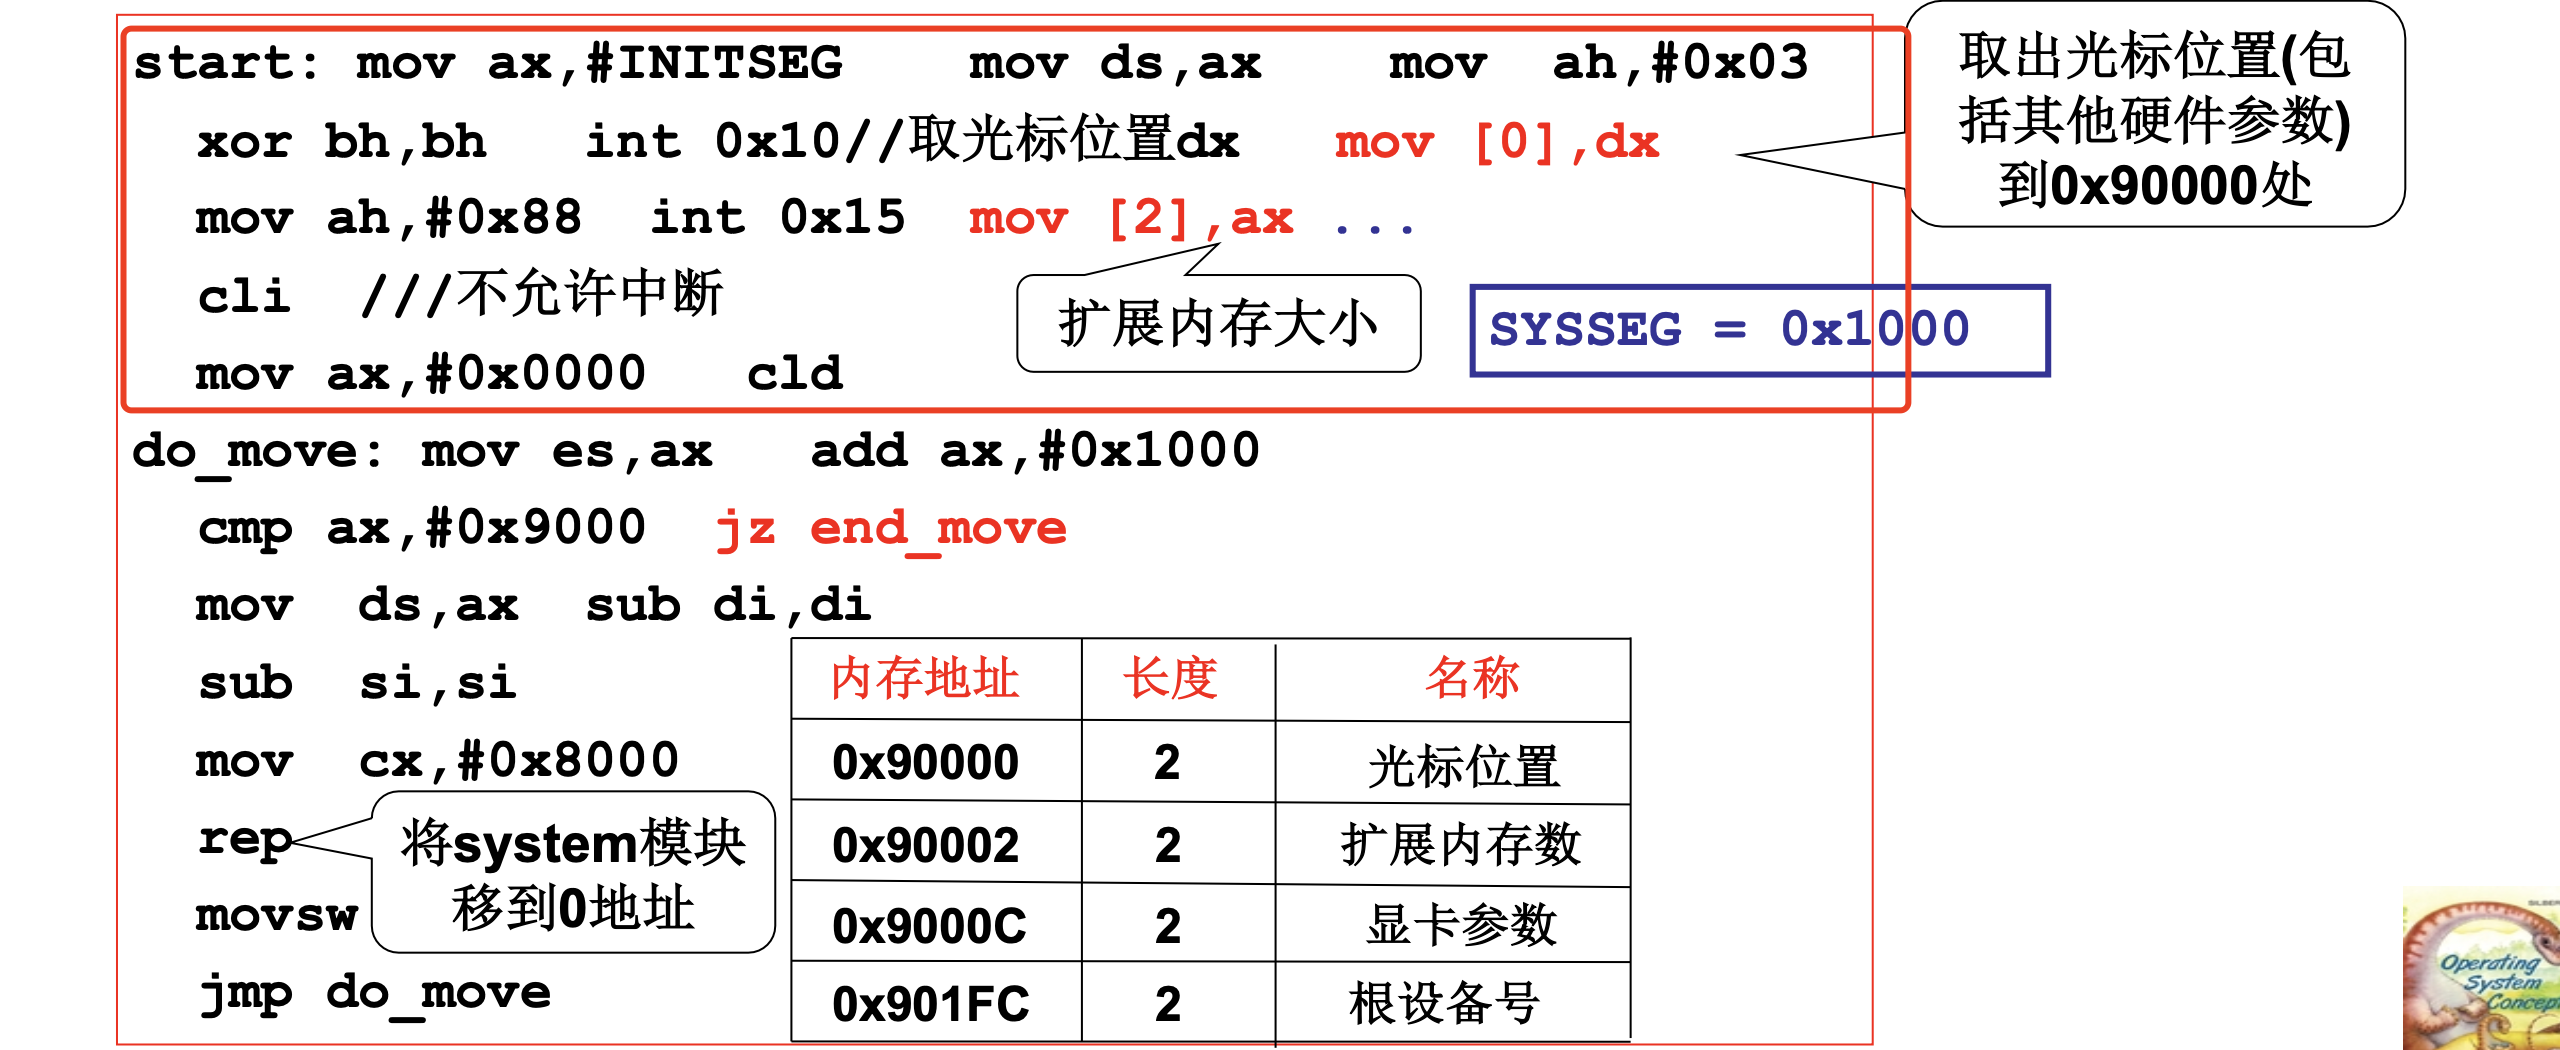
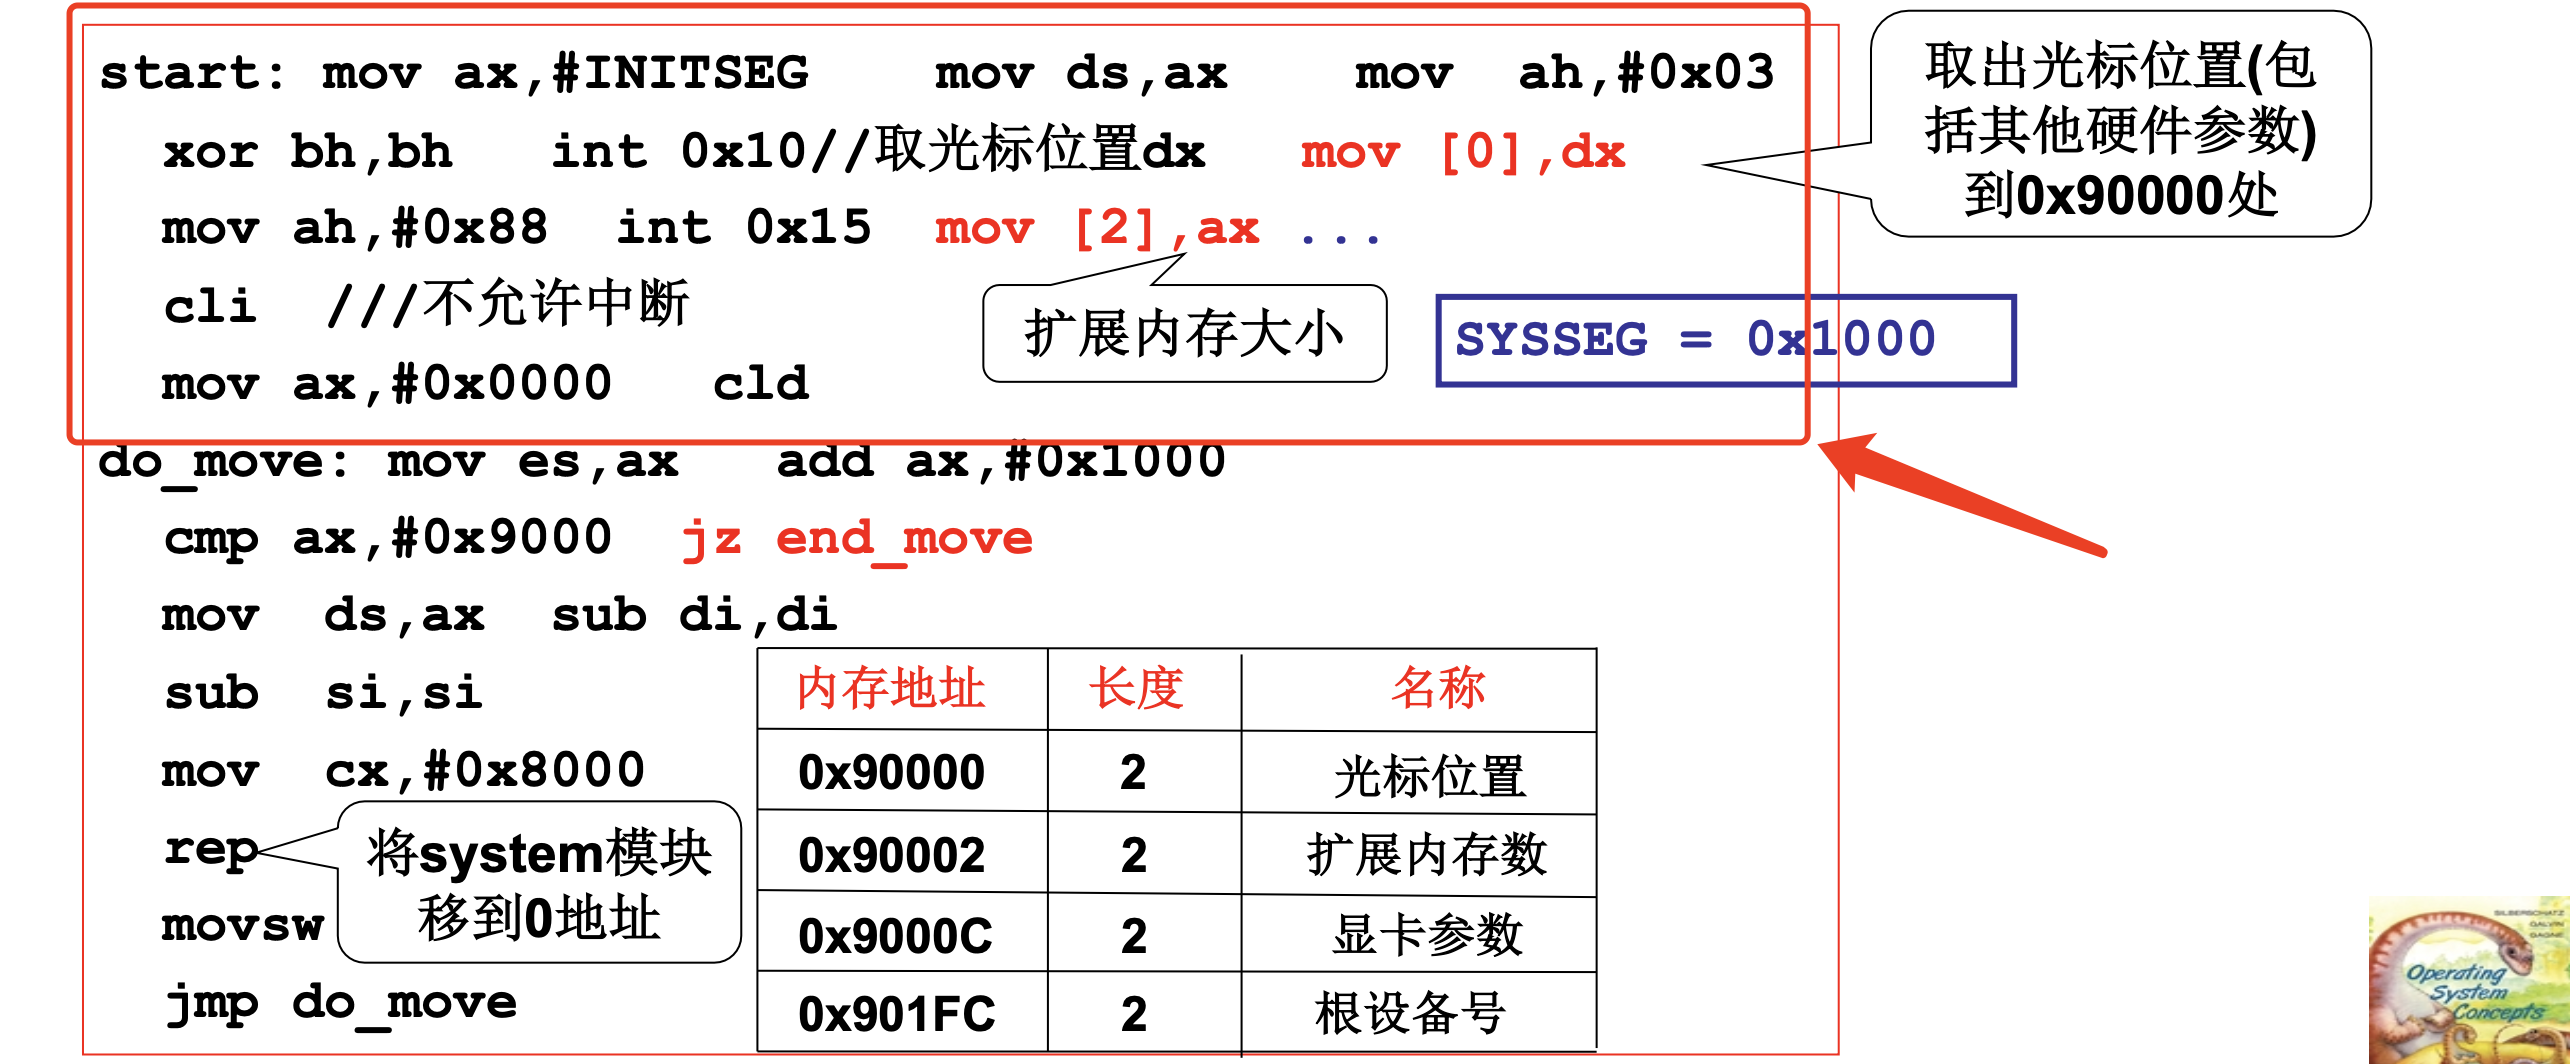
update the note for OS boot

diff --git a/Chapter01_Operating_System_Fundamentals/1.3_OS_Boot.md b/Chapter01_Operating_System_Fundamentals/1.3_OS_Boot.md
@@ -28,7 +28,7 @@
 ![alt text](images/16.png)
 **代码解析**
 - `setup模块(setup.s)`负责完成OS启动前的设置工作
-- **主要任务：读取硬件参数并存放到指定内存位置，为后续启动做准备**
+- >**主要任务：读取硬件参数并存放到指定内存位置，为后续启动做准备**
     - 通过BIOS中断`int 0x10`获取**光标位置(Cursor Position)**，存入`0x90000`处
     - 通过BIOS中断`int 0x15`获取**扩展内存大小(Extended Memory Size)**，通过`move [2] ax`存入`0x90002`处
     - 其他硬件参数（显卡参数、根设备号等）也按固定格式存放
@@ -51,29 +51,14 @@
 <a id="id2"></a>
 ## ✅ 知识点2: system模块移至0地址与内存布局
 
-**理论**
-- `SYSSEG = 0x1000`，即system模块当前位于内存`0x10000`处
-- setup需要将**system模块(System Module)**整体移动到**0地址(0x0000)**处
-- 移动完成后，0地址处将存放system模块的内容
-- 但setup本身需要移到0地址，而0地址原有重要内容（中断向量表等）
+**system模块移动**
+![alt text](images/17.png)
+- > **主要任务：移动system模块到0地址，为后续从0地址开始执行操作系统代码做准备**
+    - `SYSSEG = 0x1000`，即system模块当前位于内存`0x10000`处
+    - setup需要将<b>system模块(System Module)</b>整体移动到<b>0地址(0x0000)</b>处
+    - 移动完成后，0地址处将存放system模块的内容
+    - 但setup本身需要移到0地址，而0地址原有重要内容（中断向量表等）
 
-**代码示例：内存移动**
-```assembly
-cli                  ; 关中断，不允许中断发生
-mov  ax,#0x0000
-cld
-do_move:
-    mov  es,ax       ; 目标段
-    add  ax,#0x1000  ; 源段在下一个64KB
-    cmp  ax,#0x9000
-    jz   end_move    ; 移动完成
-    mov  ds,ax
-    sub  di,di
-    sub  si,si
-    mov  cx,#0x8000  ; 移动32KB字（64KB字节）
-    rep  movsw       ; 重复字移动
-    jmp  do_move
-```
 
 **内存布局示意**
 ```
@@ -87,7 +72,7 @@ do_move:
 
 **注意点**
 - ⚠️ **关中断必要性**：`cli`指令关闭中断，因为移动过程中中断向量表可能被破坏，若此时发生中断会导致系统崩溃
-- 🔄 **知识关联**：移动system模块到0地址，为后续从0地址开始执行操作系统代码做准备
+
 - 📋 **术语对照**：`rep movsw` → 重复字串传送指令，`cli` → Clear Interrupt（关中断）
 
 ---